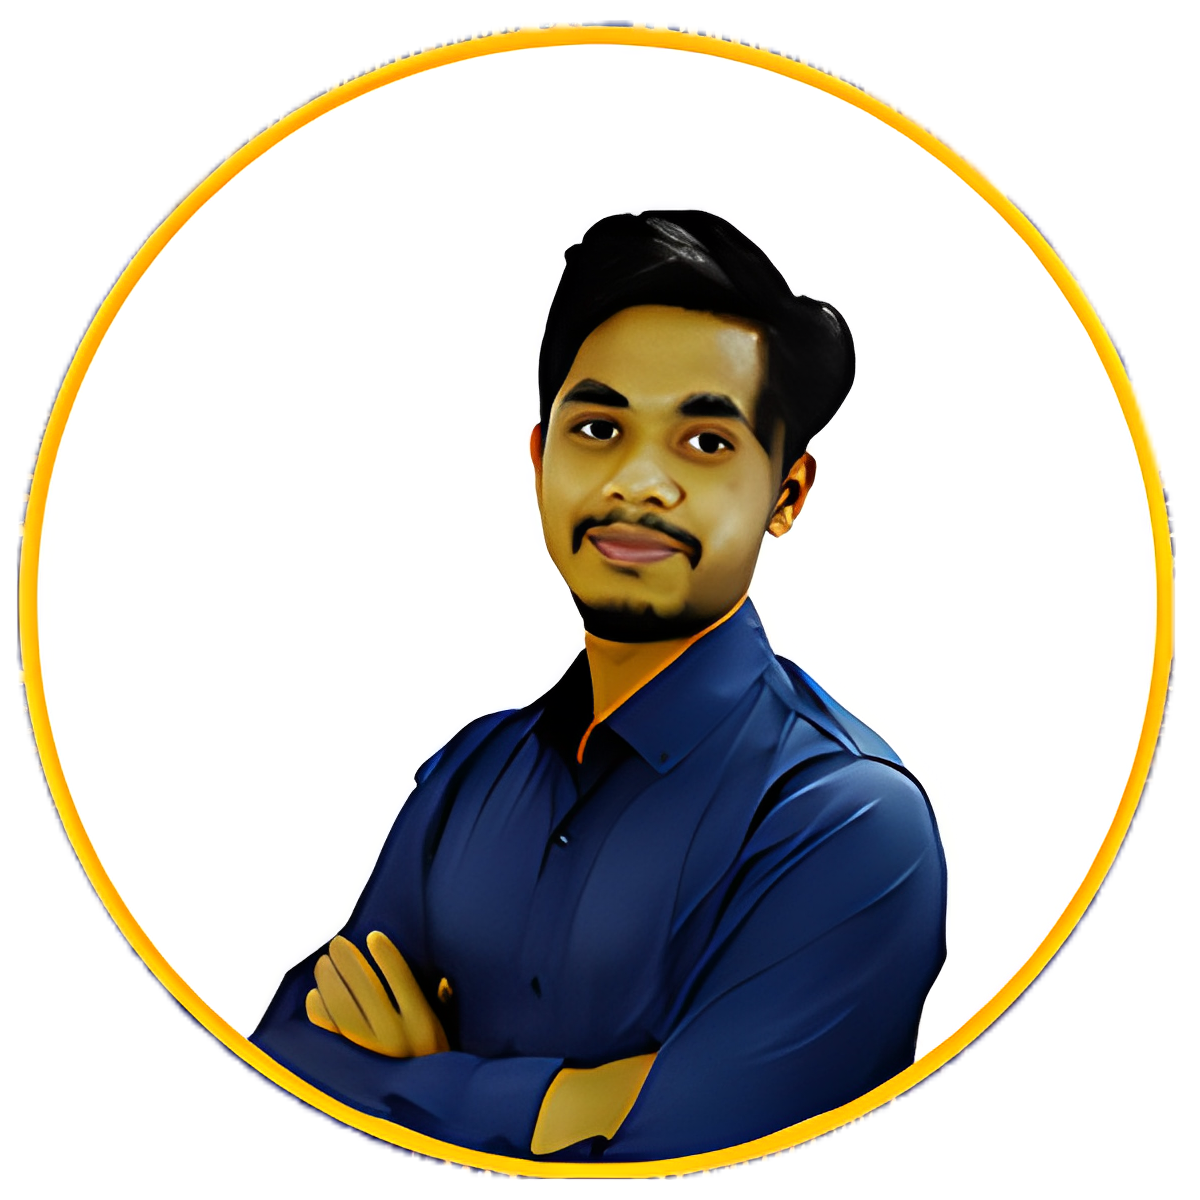
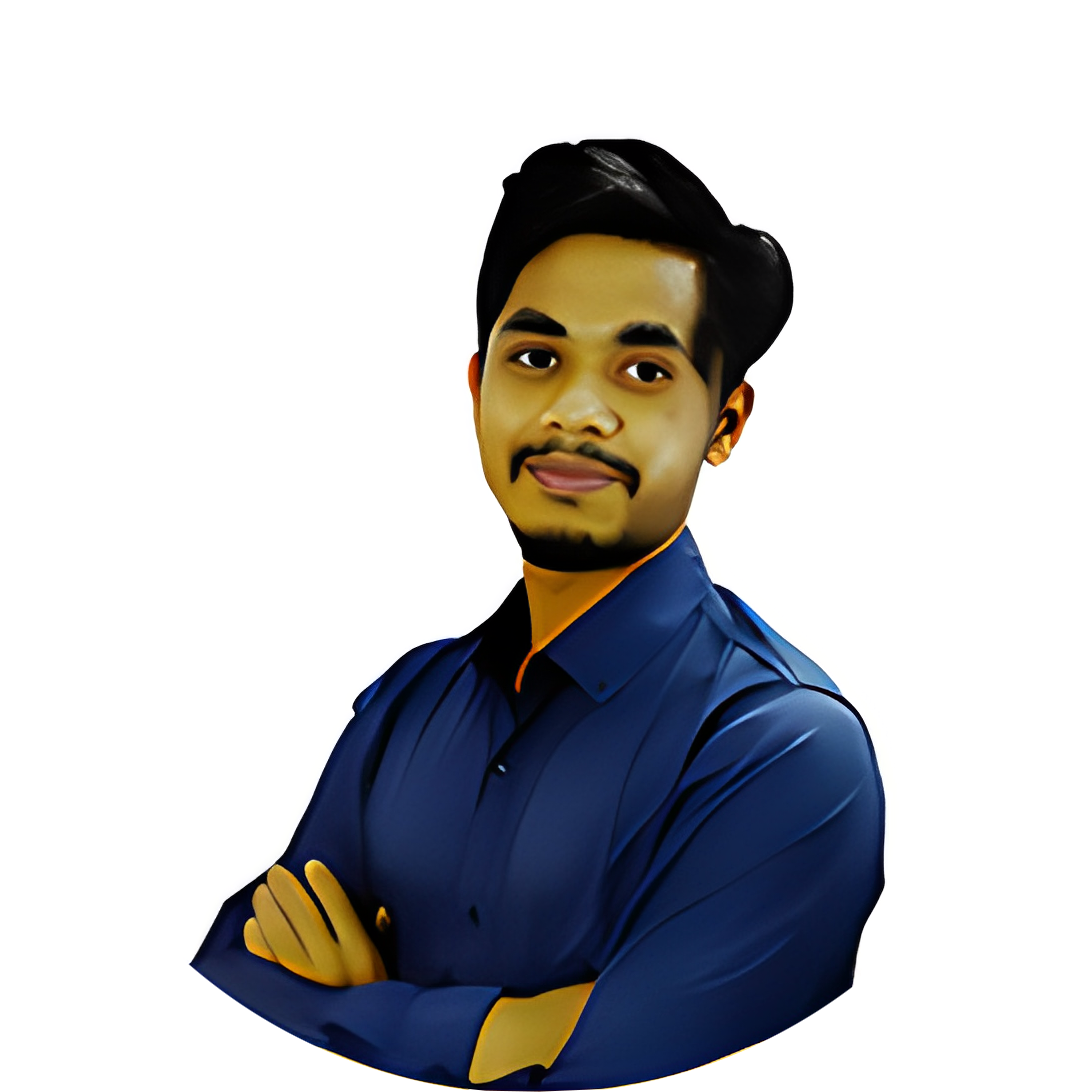
added the image animate motion

diff --git a/src/components/Photo.jsx b/src/components/Photo.jsx
@@ -1,0 +1,60 @@
+"use client"
+import Image from "next/image";
+import ismail from "../assets/ismail/ismail hossain.png"
+import { motion } from "framer-motion";
+
+const Photo = () => {
+    return (
+        <div className="w-full h-full relative">
+            <motion.div
+                initial={{ opacity: 0 }}
+                animate={{ opacity: 1 }}
+                transition={{ delay: 2, duration: 0.3, ease: "easeIn" }}
+            >
+                <motion.div
+                    initial={{ opacity: 0 }}
+                    animate={{ opacity: 1 }}
+                    transition={{ delay: 2, duration: 0.3, ease: "easeInOut" }}
+                    className="w-[318px] h-[318px] xl:w-[518px] xl:h-[518px]"
+                >
+                    <Image
+                        src={ismail}
+                        priority
+                        quality={100}
+                        fill
+                        className="object-contain"
+                        alt="ismail hossain"
+                    />
+
+                    {/* Animated Circles */}
+                    <motion.svg
+                        className="w-[320px] h-[320px] xl:w-[520px] xl:h-[520px] absolute"
+                        fill="transparent"
+                        viewBox="0 0 506 506"
+                        xmlns="http://www.w3.org/2000/svg"
+                    >
+                        <motion.circle
+                            cx="253"
+                            cy="253"
+                            r="253"
+                            stroke="#00FF99"
+                            strokeWidth="4"
+                            strokeLinecap="round"
+                            strokeLinejoin="round"
+                            initial={{ strokeDasharray: "0 1570" }}
+                            animate={{ strokeDasharray: ["0 1570", "1570 0"] }}
+                            transition={{
+                                duration: 5,
+                                repeat: Infinity,
+                                repeatType: "reverse",
+                                ease: "easeInOut",
+                            }}
+                        />
+                    </motion.svg>
+                </motion.div>
+            </motion.div>
+        </div>
+    );
+};
+
+export default Photo;

diff --git a/src/app/page.jsx b/src/app/page.jsx
@@ -1,8 +1,7 @@
 import { Button } from "../components/ui/button";
-import Image from 'next/image'
-import ismail from '../assets/ismail/Ismail Hossain.png'
 import { FileDownIcon } from "lucide-react";
 import SocialIcons from "@/components/Socail-Icons";
+import Photo from "@/components/Photo";
 
 
 export default function Home() {
@@ -11,11 +10,11 @@ export default function Home() {
 
       <section id="hero-section-wrapper" className="section-padding">
         <div className="hero-section-container container">
-          <div className="hero-section-body-wrapper flex flex-col-reverse xl:flex-row items-center justify-between">
+          <div className="hero-section-body-wrapper flex flex-col-reverse xl:flex-row items-center justify-between gap-8 xl:gap-4">
             {/* hero text */}
             <div className="hero-section-top basis-[55%]">
               <div className="hero-section-content flex flex-col gap-4">
-                <span className="hero-sub-heading">Font End Developer</span>
+                <span className="hero-sub-heading">Front End Developer</span>
                 <h1 className="h1">Hello, I'm <br></br><span className="text-accent">Ismail Hossain</span></h1>
                 <p className="hero-description">I am strategic and goal-oriented, and I always work with an end goal in mind. I like to take challenges in everything. I believe I am a good candidate for this position.</p>
 
@@ -30,21 +29,15 @@ export default function Home() {
                 <SocialIcons containerStyle="flex space-x-4" iconStyle="w-9 h-9 border border-accent rounded-full flex justify-center items-center text-accent text-base hover:bg-accent hover:text-black hover:transition-all duration-5"></SocialIcons>
 
               </div>
-
-
-
             </div>
+
             {/* hero photo */}
             <div className="hero-section-bottom">
               <div className="hero-photo">
-                <Image
-                  src={ismail}
-                  width={500}
-                  height={500}
-                  alt="ismail hossain"
-                />
+                 <Photo/>
               </div>
             </div>
+
           </div>
         </div>
       </section>

diff --git a/src/app/globals.css b/src/app/globals.css
@@ -77,7 +77,7 @@
   }
 
   .h1{
-    @apply text-[48px] xl:text-[80px] leading-[1.1] font-semibold;
+    @apply text-[42px] xl:text-[80px] leading-[1.1] font-semibold;
   }
 
   .h2{
